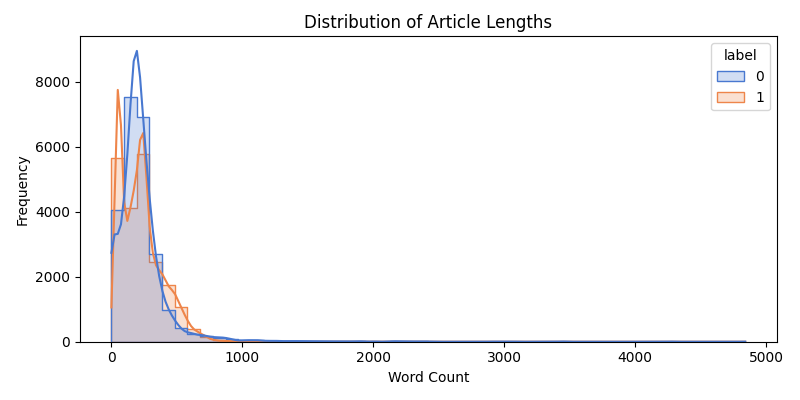
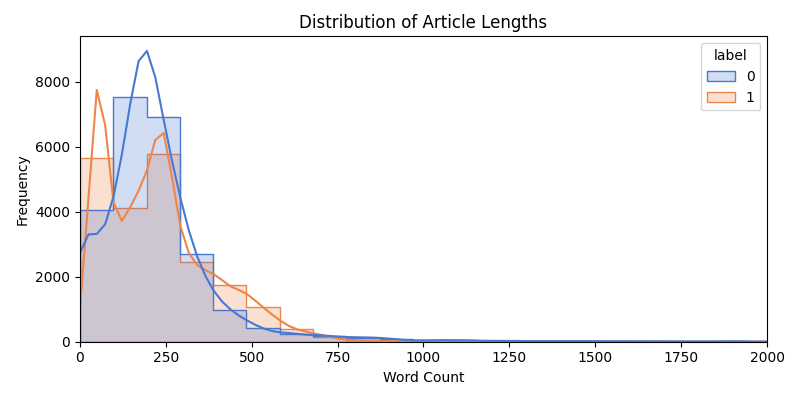
Added model comparison charts and confusion matrices

diff --git a/Code/model_comparison.py b/Code/model_comparison.py
@@ -1,0 +1,72 @@
+import os
+import joblib
+import pandas as pd
+import seaborn as sns
+import matplotlib.pyplot as plt
+from sklearn.metrics import accuracy_score, f1_score, confusion_matrix
+
+from scipy.sparse import load_npz
+
+# Paths
+script_dir = os.path.dirname(os.path.abspath(__file__))
+data_dir = os.path.join(script_dir, '../Dataset')
+model_dir = os.path.join(script_dir, '../Models')
+vis_dir = os.path.join(script_dir, '../Visualisations')
+os.makedirs(vis_dir, exist_ok=True)
+
+# Load data
+X_test = load_npz(os.path.join(data_dir, 'X_test_vec.npz'))
+y_test = pd.read_csv(os.path.join(data_dir, 'y_test.csv')).values.ravel()
+
+# Model names and file paths
+models = {
+    "Logistic Regression": "Logistic_Model.pkl",
+    "Naive Bayes": "Naive_Bayes_Model.pkl",
+    "SVM": "SVM_Model.pkl",
+    "Random Forest": "Random_Forest_Model.pkl",
+    "XGBoost": "XGBoost_Model.pkl",
+    "Passive Aggressive": "Passive_Aggressive_Model.pkl"
+}
+
+# Store metrics for plotting
+results = []
+
+for name, file in models.items():
+    model_path = os.path.join(model_dir, file)
+    model = joblib.load(model_path)
+    
+    y_pred = model.predict(X_test)
+    acc = accuracy_score(y_test, y_pred)
+    f1 = f1_score(y_test, y_pred)
+    cm = confusion_matrix(y_test, y_pred)
+
+    results.append({"Model": name, "Accuracy": acc, "F1 Score": f1})
+    
+    # Plot confusion matrix
+    plt.figure(figsize=(5, 4))
+    sns.heatmap(cm, annot=True, fmt='d', cmap='Blues')
+    plt.title(f"{name} - Confusion Matrix")
+    plt.xlabel("Predicted")
+    plt.ylabel("Actual")
+    plt.tight_layout()
+    plt.savefig(os.path.join(vis_dir, f"{name.replace(' ', '_')}_confusion_matrix.png"))
+    plt.close()
+
+# Create dataframe and barplot
+df = pd.DataFrame(results).sort_values(by='F1 Score', ascending=False)
+
+plt.figure(figsize=(8, 5))
+sns.barplot(x="F1 Score", y="Model", data=df, palette="viridis")
+plt.title("Model Comparison - F1 Scores")
+plt.tight_layout()
+plt.savefig(os.path.join(vis_dir, "model_f1_comparison.png"))
+plt.close()
+
+plt.figure(figsize=(8, 5))
+sns.barplot(x="Accuracy", y="Model", data=df, palette="rocket")
+plt.title("Model Comparison - Accuracy")
+plt.tight_layout()
+plt.savefig(os.path.join(vis_dir, "model_accuracy_comparison.png"))
+plt.close()
+
+print("Model comparison visualisations saved.")

diff --git a/Code/eda.py b/Code/eda.py
@@ -32,6 +32,7 @@ sns.histplot(data=df, x='text_length', hue='label', bins=50, kde=True, palette='
 plt.title('Distribution of Article Lengths')
 plt.xlabel('Word Count')
 plt.ylabel('Frequency')
+plt.xlim(0, 2000)
 plt.tight_layout()
 plt.savefig(os.path.join(vis_dir, 'text_length_distribution.png'))
 plt.close()
